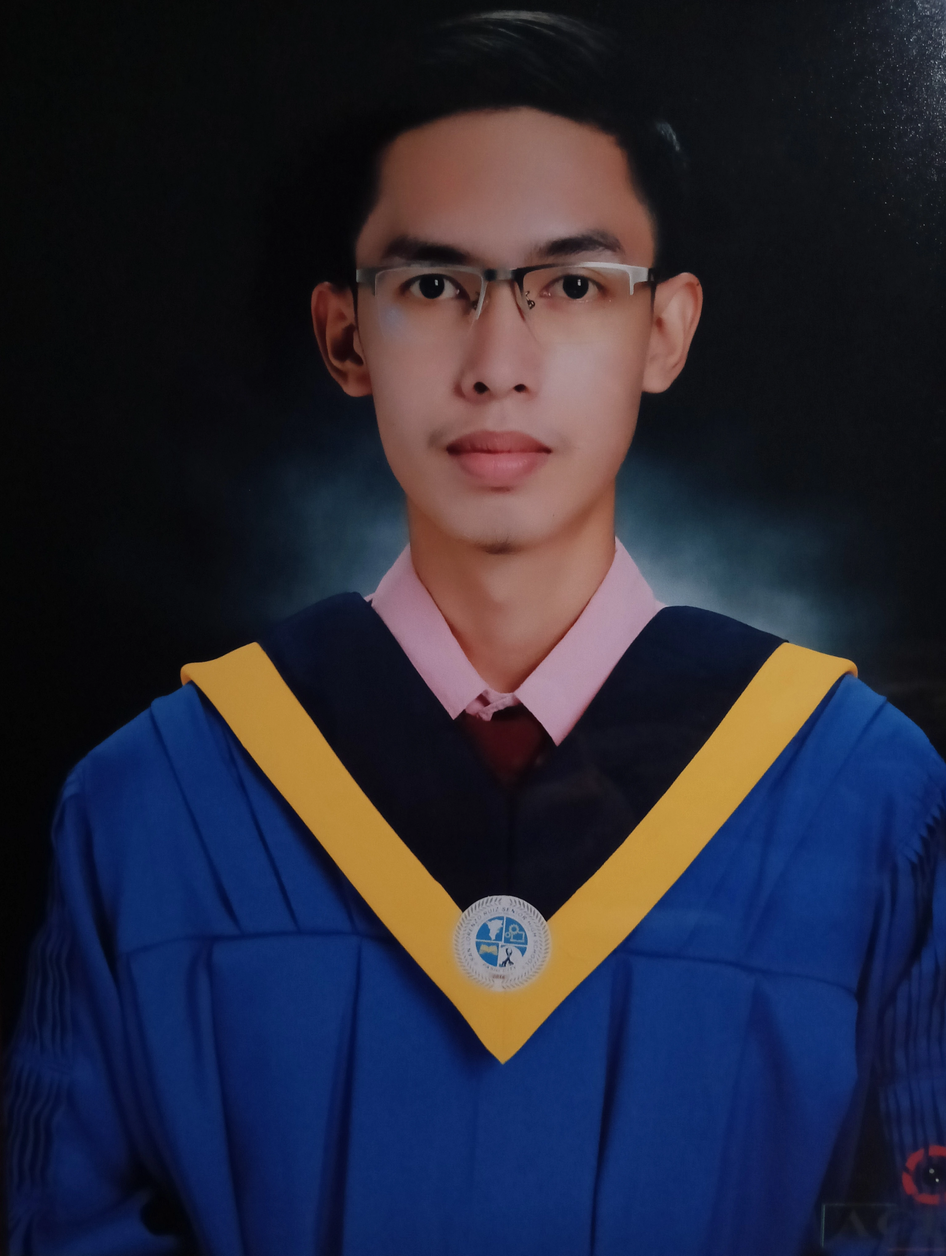
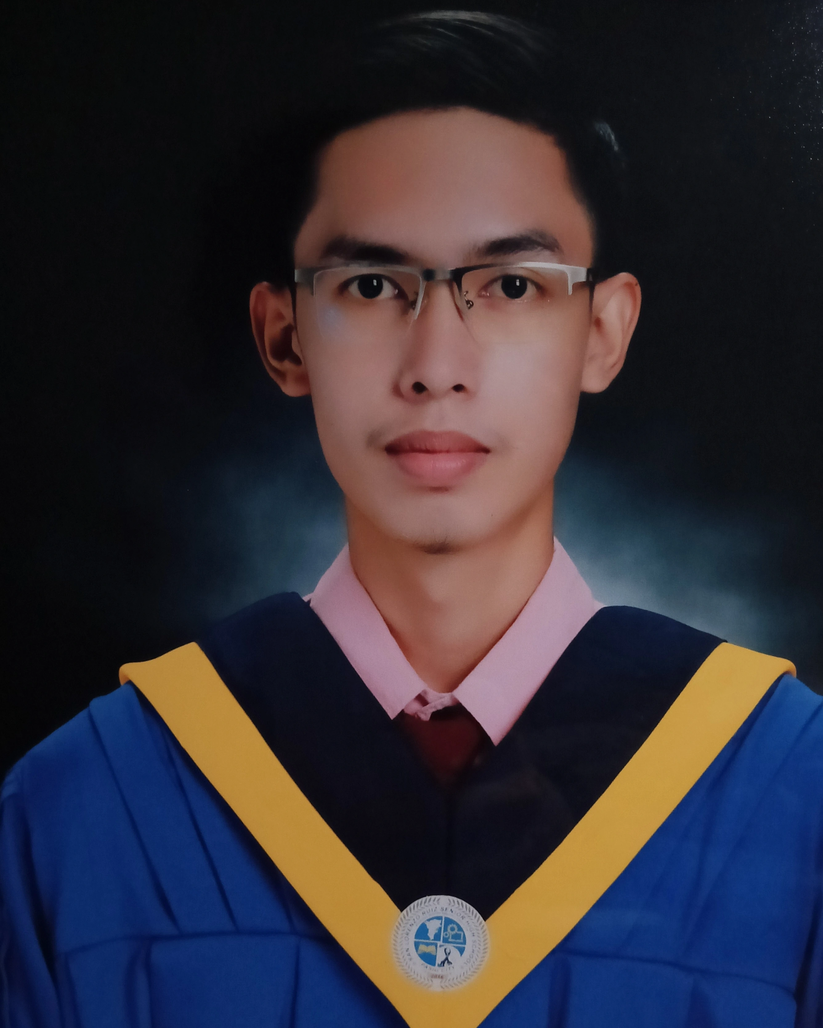
Adjust works hero media, restore homepage works cutout, and crop about background portrait by shoulders

diff --git a/src/pages/WorksPage.tsx b/src/pages/WorksPage.tsx
@@ -41,79 +41,14 @@ export const WorksPage: React.FC = () => {
             </h1>
           </div>
 
-          {/* Right Col: Vinyl Record Disk */}
-          <div className="relative col-span-4 md:col-span-4 border-l border-brand-primary/50">
-            <div className="relative aspect-square max-h-[66svh] w-full overflow-hidden bg-brand-dark flex items-center justify-center p-8">
-              <div className="aspect-square h-[75%] relative">
-                <svg
-                  viewBox="0 0 200 200"
-                  className="animate-vinyl h-full w-full"
-                  role="img"
-                  aria-label="Engineered by Ryan Genturo"
-                >
-                  <defs>
-                    <path
-                      id="vinyl-path"
-                      fill="none"
-                      d="M 100,100 m -76,0 a 76,76 0 1,1 152,0 a 76,76 0 1,1 -152,0"
-                    />
-                  </defs>
-                  {/* Vinyl Outer Rim */}
-                  <circle cx="100" cy="100" r="100" fill="var(--color-brand-cream)" />
-                  {/* Grooves */}
-                  <circle
-                    cx="100"
-                    cy="100"
-                    r="96"
-                    fill="none"
-                    stroke="var(--color-brand-primary)"
-                    strokeOpacity="0.22"
-                    strokeWidth="0.8"
-                  />
-                  <circle
-                    cx="100"
-                    cy="100"
-                    r="92"
-                    fill="none"
-                    stroke="var(--color-brand-primary)"
-                    strokeOpacity="0.22"
-                    strokeWidth="0.8"
-                  />
-                  <circle
-                    cx="100"
-                    cy="100"
-                    r="88"
-                    fill="none"
-                    stroke="var(--color-brand-primary)"
-                    strokeOpacity="0.22"
-                    strokeWidth="0.8"
-                  />
-                  <circle
-                    cx="100"
-                    cy="100"
-                    r="62"
-                    fill="none"
-                    stroke="var(--color-brand-primary)"
-                    strokeOpacity="0.22"
-                    strokeWidth="0.8"
-                  />
-                  {/* Center Label */}
-                  <circle cx="100" cy="100" r="42" fill="var(--color-brand-primary)" />
-                  <circle cx="100" cy="100" r="8" fill="var(--color-brand-cream)" />
-                  {/* Circular Text */}
-                  <text
-                    fontSize="9.5"
-                    fontWeight="700"
-                    letterSpacing="0.18em"
-                    fill="var(--color-brand-cream)"
-                  >
-                    <textPath href="#vinyl-path">
-                      • RYAN GENTURO • COMPUTER ENGINEERING • SYSTEMS •
-                    </textPath>
-                  </text>
-                </svg>
-              </div>
-            </div>
+          {/* Right Media Col */}
+          <div className="relative col-span-4 md:col-span-4 border-l border-brand-primary/50 bg-brand-dark min-h-[300px] md:min-h-0 overflow-hidden">
+            <img
+              src="/assets/works-portrait-cutout.webp"
+              alt="Ryan Lloyd Genturo - Selected Works"
+              className="h-full w-full object-cover object-top"
+            />
+            <div className="absolute inset-0 bg-brand-primary/10 mix-blend-multiply pointer-events-none" />
           </div>
         </div>
       </section>

diff --git a/src/pages/AboutPage.tsx b/src/pages/AboutPage.tsx
@@ -114,7 +114,7 @@ export const AboutPage: React.FC = () => {
                 <img
                   alt="Ryan Lloyd Genturo - Educational Background"
                   src="/assets/about-background.webp"
-                  className="h-full w-full object-cover"
+                  className="h-full w-full object-cover object-top"
                 />
                 <div className="absolute inset-0 bg-brand-primary/15 mix-blend-multiply pointer-events-none" />
               </div>

diff --git a/src/components/SelectedWorksCarousel.tsx b/src/components/SelectedWorksCarousel.tsx
@@ -9,7 +9,7 @@ interface SelectedWorksCarouselProps {
 }
 
 export const SelectedWorksCarousel: React.FC<SelectedWorksCarouselProps> = ({
-  sideImage = '/assets/works-portrait-cutout.webp',
+  sideImage = '/assets/image4.png',
 }) => {
   const projects = PORTFOLIO_DATA.projects.filter((p) => p.featured);
   const [activeIndex, setActiveIndex] = useState(0);

diff --git a/src/pages/HomePage.tsx b/src/pages/HomePage.tsx
@@ -171,7 +171,7 @@ export const HomePage: React.FC = () => {
       </section>
 
       {/* SECTION 3: SELECTED WORKS CAROUSEL */}
-      <SelectedWorksCarousel sideImage="/assets/works-portrait-cutout.webp" />
+      <SelectedWorksCarousel sideImage="/assets/image4.png" />
 
       {/* SECTION 4: SERVICES */}
       <ServicesSection />
